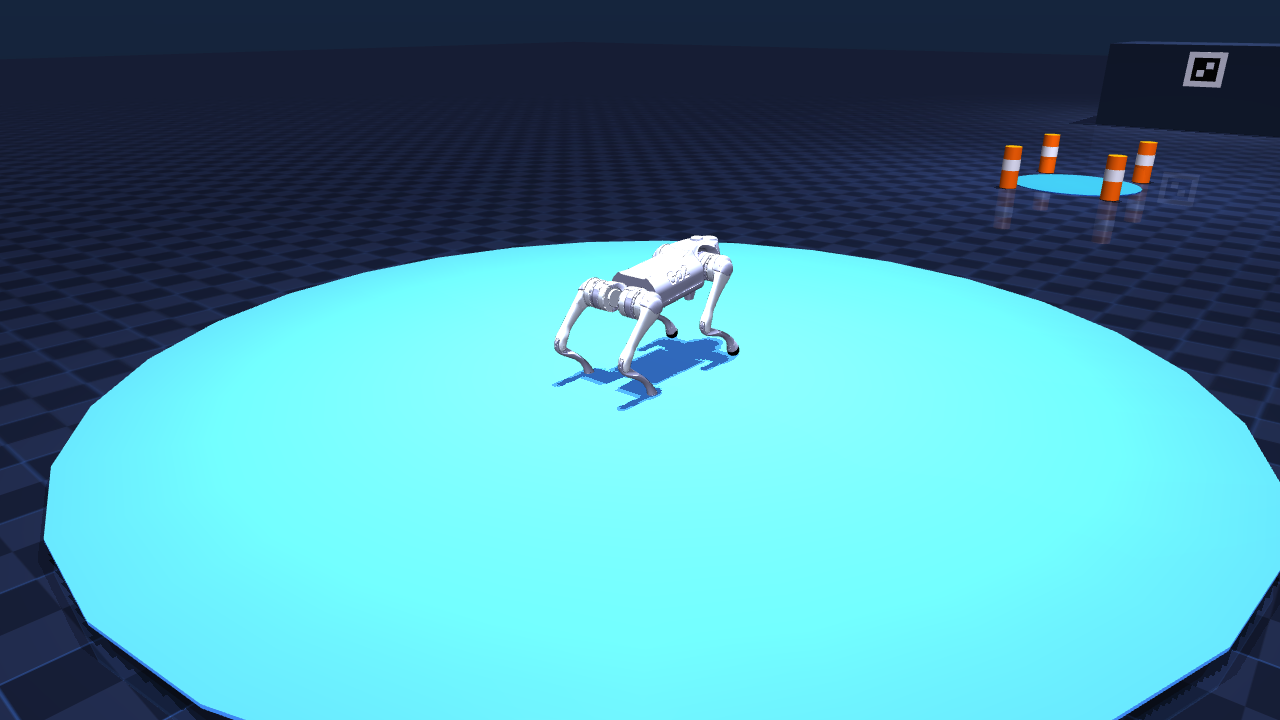
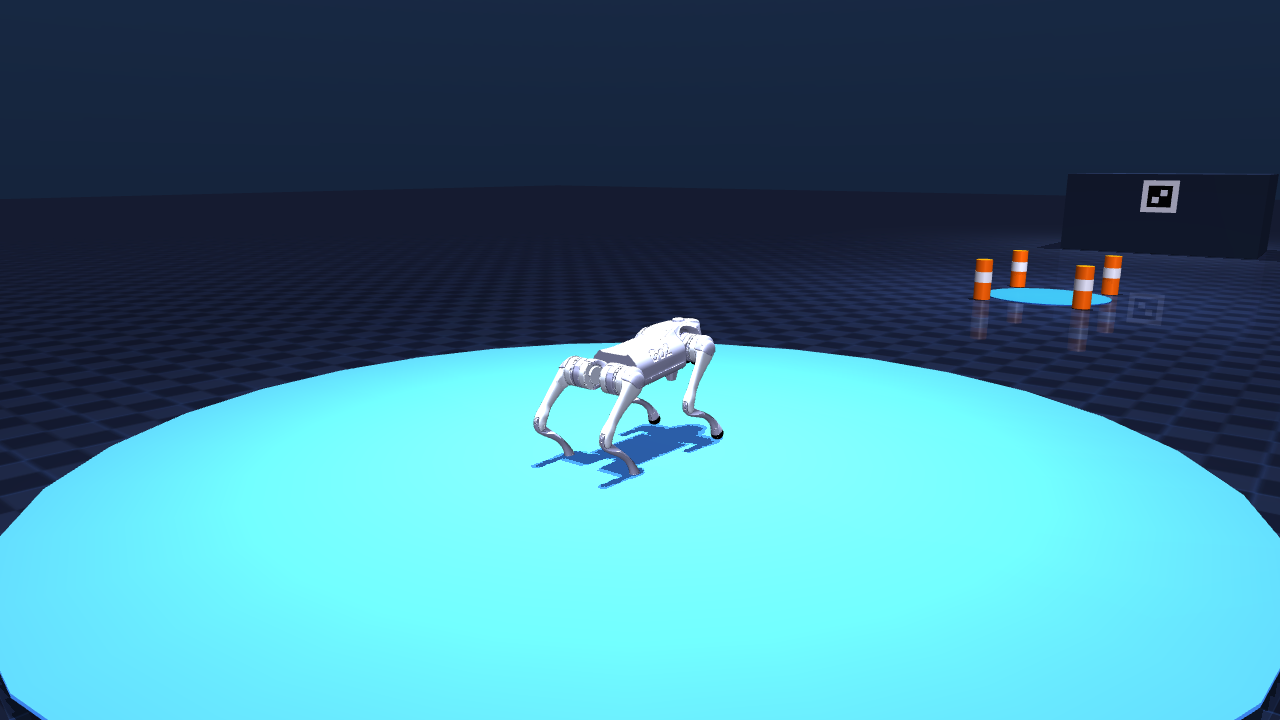
fix(framing): fix scene 3 hazard standoff position on dry floor and enable targetbody camera tracking for guaranteed visibility in scenes 4 and 5

Changed region(s): [[0.0, 0.1833, 1.0, 1.0], [0.875, 0.7944, 1.0, 1.0], [0.8438, 0.0611, 1.0, 0.1222]]

diff --git a/sim_mujoco/cloud_mujoco_sim.py b/sim_mujoco/cloud_mujoco_sim.py
@@ -122,34 +122,34 @@ class CloudMuJoCoSimulator:
                 "id": 2,
                 "name": "SCENE 2: ARGUS PATROL",
                 "fsm": "STATE_ARGUS_PATROL",
-                "target_x": 3.5, "target_y": 0.0, "target_yaw": 0.0,
+                "target_x": 2.5, "target_y": 0.0, "target_yaw": 0.0,
                 "camera": "cam_patrol_corridor",
-                "transit_time": 4.5, "station_time": 4.5,
-                "desc": "Trotting along the main pavilion avenue (x=3.5m) with simulated 4D LiDAR."
+                "transit_time": 4.0, "station_time": 4.5,
+                "desc": "Trotting along the main pavilion avenue (x=2.5m) with simulated 4D LiDAR."
             },
             {
                 "id": 3,
                 "name": "SCENE 3: SPILL HAZARD E-STOP",
                 "fsm": "STATE_HAZARD_ALERT",
-                "target_x": 4.75, "target_y": 0.0, "target_yaw": 0.0,
+                "target_x": 3.8, "target_y": 0.0, "target_yaw": 0.0,
                 "camera": "cam_hazard_stop",
-                "transit_time": 3.5, "station_time": 5.5,
-                "desc": "Emergency E-stop right before the blue spill puddle & caution cones at x=5.0m."
+                "transit_time": 3.0, "station_time": 5.5,
+                "desc": "Emergency E-stop safely halting 0.75m BEFORE the spill puddle & caution cones."
             },
             {
                 "id": 4,
                 "name": "SCENE 4: ARUCO STANDOFF DOCK",
                 "fsm": "STATE_DOCENT_CRUISE",
-                "target_x": 8.6, "target_y": 0.0, "target_yaw": 0.0,
+                "target_x": 8.2, "target_y": 0.0, "target_yaw": 0.0,
                 "camera": "cam_booth_standoff",
-                "transit_time": 5.5, "station_time": 5.0,
-                "desc": "Docked at Booth 1 at 1.4m standoff, aligning with ArUco ID 10 board (x=10.0m)."
+                "transit_time": 6.0, "station_time": 5.0,
+                "desc": "Docked at Booth 1 at 1.2m standoff, aligning with ArUco ID 10 board (x=10.0m)."
             },
             {
                 "id": 5,
                 "name": "SCENE 5: 180° PRESENTER PIVOT",
                 "fsm": "STATE_DOCENT_NARRATE",
-                "target_x": 8.6, "target_y": 0.0, "target_yaw": math.pi,
+                "target_x": 8.2, "target_y": 0.0, "target_yaw": math.pi,
                 "camera": "cam_presenter_audience",
                 "transit_time": 4.0, "station_time": 5.5,
                 "desc": "Stepping 180° in place to face audience. Docent presentation mode with +8° eye contact."
